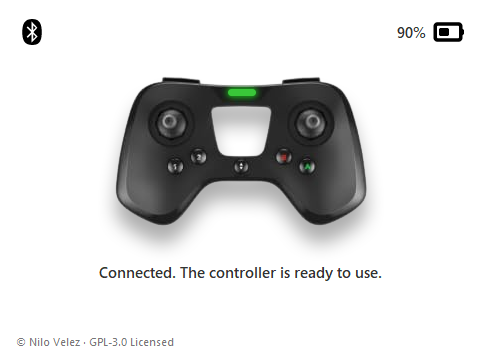
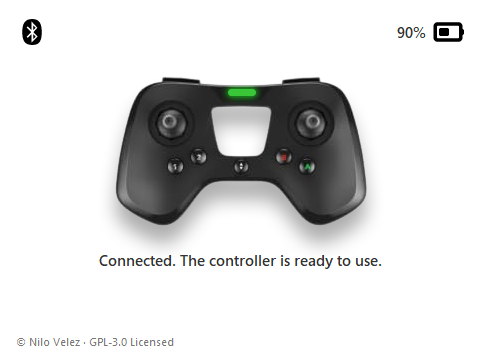
Point the driver error to the installer in drivers/, tidy window texts and README header
- Missing-driver error links to drivers/ViGEmBus_1.22.0_x64_x86_arm64.exe
  in this repo and breaks the line before "Install ViGEmBus".
- Status texts moved up, away from the credit line.
- README: framed window screenshot at the top, no icon, no Parrot link.

Changed region(s): [[0.1875, 0.7028, 0.8125, 0.7944]]

diff --git a/flypad_keepalive.py b/flypad_keepalive.py
@@ -127,11 +127,11 @@ class App:
         self.batt = c.create_image(WIDTH - MARGIN, MARGIN, image=self.img["battery-off"], anchor="ne")
         self.pct = c.create_text(WIDTH - MARGIN - ICON - 6, MARGIN + ICON // 2, text="", anchor="e",
                                  font=("Segoe UI Semibold", 11), fill=TEXT_COLOR)
-        self.title = c.create_text(WIDTH // 2, 272, text="", font=("Segoe UI Semibold", 11),
+        self.title = c.create_text(WIDTH // 2, 260, text="", font=("Segoe UI Semibold", 11),
                                    fill=TEXT_COLOR, width=WIDTH - 40, justify="center")
-        self.sub = c.create_text(WIDTH // 2, 298, text="", font=("Segoe UI", 9),
+        self.sub = c.create_text(WIDTH // 2, 285, text="", font=("Segoe UI", 9),
                                  fill=SUB_COLOR, width=WIDTH - 40, justify="center")
-        self.link = c.create_text(WIDTH // 2, 322, text="", font=("Segoe UI", 9, "underline"),
+        self.link = c.create_text(WIDTH // 2, 308, text="", font=("Segoe UI", 9, "underline"),
                                   fill=LINK_COLOR)
         self.link_url = None
         c.tag_bind(self.link, "<Button-1>", lambda _e: self.link_url and webbrowser.open(self.link_url))

diff --git a/flypad_bridge.py b/flypad_bridge.py
@@ -36,7 +36,7 @@ import time
 from bleak import BleakClient, BleakScanner
 from bleak.exc import BleakBluetoothNotAvailableError, BleakBluetoothNotAvailableReason
 
-VIGEMBUS_URL = "https://github.com/nefarius/ViGEmBus/releases/tag/v1.22.0"
+VIGEMBUS_URL = "https://github.com/nilovelez/flypad-keepalive/blob/main/drivers/ViGEmBus_1.22.0_x64_x86_arm64.exe"
 
 SERVICE_UUID = "9e35fa00-4344-44d4-a2e2-0c7f6046878b"
 INPUT_UUID   = "9e35fa01-4344-44d4-a2e2-0c7f6046878b"   # notifications controller -> PC
@@ -123,7 +123,7 @@ class Pad:
                 if "VIGEM_ERROR_BUS_NOT_FOUND" in str(e):
                     raise FatalError(
                         "The ViGEmBus driver was not found. It is needed to create the virtual "
-                        "Xbox 360 controller. Install ViGEmBus v1.22.0 and open the program again.",
+                        "Xbox 360 controller.\nInstall ViGEmBus v1.22.0 and open the program again.",
                         url=VIGEMBUS_URL)
                 raise FatalError(
                     "Could not create the virtual Xbox 360 controller (%s). "

diff --git a/README.md b/README.md
@@ -1,7 +1,3 @@
-<p align="center">
-  <img src="assets/app-icon/app-256.png" width="128" height="128" alt="Flypad Keepalive icon">
-</p>
-
 <h1 align="center">Flypad Keepalive</h1>
 
 <p align="center">
@@ -15,14 +11,14 @@
 </p>
 
 <p align="center">
-  <img src="docs/images/window-connected.png" width="480" alt="Flypad Keepalive window with the Flypad connected and 90% battery">
+  <img src="docs/images/window.png" width="538" alt="Flypad Keepalive window with the Flypad connected and 90% battery">
 </p>
 
 ---
 
 ## Why?
 
-The [Parrot Flypad](https://www.parrot.com/) is a nice, light Bluetooth controller made for Parrot's
+The Parrot Flypad is a nice, light Bluetooth controller made for Parrot's
 minidrones. Windows recognizes it as a game controller, both over USB and when paired over Bluetooth,
 so it looks like it should just work in simulators like **Liftoff** or **Uncrashed**.
 

diff --git a/guppy/STATUS.md b/guppy/STATUS.md
@@ -21,6 +21,7 @@ Plan por hitos:
 
 ## Diario
 
+- 2026-10-08: Retoques: el error de driver enlaza a la copia de drivers/ del repo y parte el texto en dos líneas; textos de estado más arriba; README sin icono, sin enlace a Parrot y con captura de la ventana con marco (docs/images/window.png).
 - 2026-10-08: H6 hecho: README en inglés (presentación, por qué, instalación, SmartScreen, uso con capturas, botones, troubleshooting, cómo funciona, build, créditos), LICENSE GPL-3.0 y capturas en docs/images/. El enlace de descarga apunta a Releases, que aún está vacío (H7).
 - 2026-10-08: H5 cerrado: ventana gráfica probada con el Flypad en el equipo de pruebas.
 - 2026-10-08: El enlace al repo pasa a ser un crédito: «© Nilo Velez · GPL-3.0 Licensed». Falta añadir el LICENSE GPL-3.0 al repo (H6).
